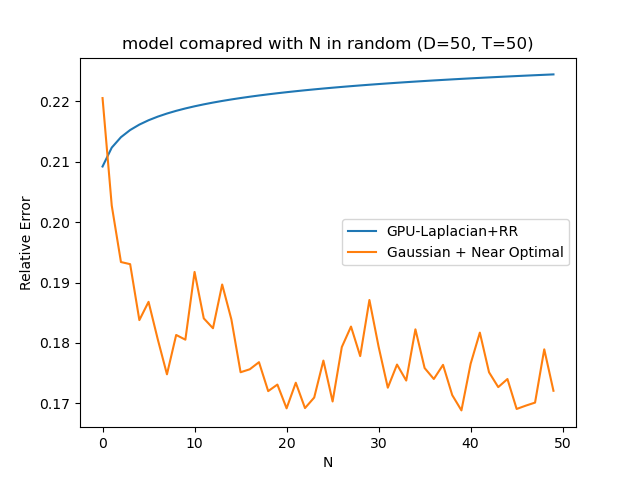
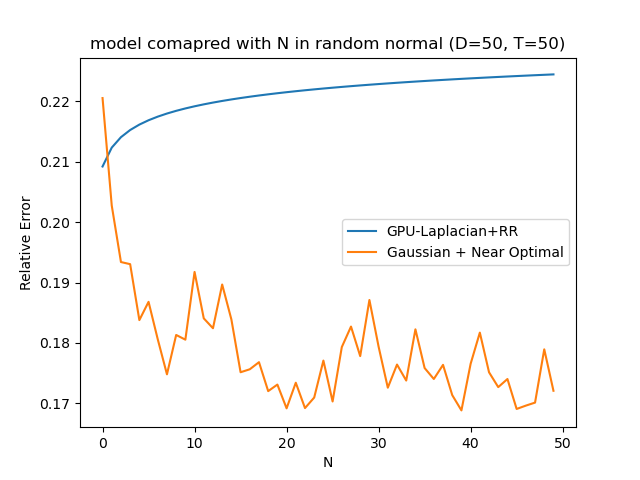
upload plot

Changed region(s): [[0.125, 0.0625, 0.875, 0.125]]

diff --git a/data/plot.py b/data/plot.py
@@ -88,6 +88,25 @@ def plot_acc(fn1_new, fn2_baseline, x_label, y_label, title):
 	plt.savefig("./plots/acc_"+fn)
 	plt.close()
 
+def plot_acc2(fn1_normal, fn2_uniform, x_label, y_label, title):
+	df_new = pd.read_csv(fn1_normal)
+	df_base = pd.read_csv(fn2_uniform) 
+
+	acc_df = pd.DataFrame()
+	acc_df['Random Normal data'] = df_new['relative_err']
+	acc_df['Ranmdom Uniform data'] = df_base['relative_err']
+	#query_df['baseline query'] = df_base['query']
+	acc_df.plot()
+	plt.title(title)
+	plt.xlabel(x_label)
+	plt.ylabel(y_label)
+	fn = fn1_normal.split('.')
+	fn = fn[1].split('/')
+	fn = fn[3]
+	print(fn)
+	plt.savefig("./plots/data_acc_"+fn)
+	plt.close()
+
 # speed 
 
 plot_speed("./speed/uniform/laplacian_tf_D_unif.csv", "./speed/uniform/near_opt_D_unif.csv", 
@@ -125,7 +144,21 @@ plot_acc("./accuracy/uniform/laplacian_D_unif_acc.csv", "./accuracy/uniform/near
  	 "D", "Relative Error", "model comapred with D in random uniform (N=100k, T=50)")
 
 plot_acc("./accuracy/normal/laplacian_N_acc.csv", "./accuracy/normal/near_opt_N_acc.csv", 
-	 "N", "Relative Error", "model comapred with N in random (D=50, T=50)")
+	 "N", "Relative Error", "model comapred with N in random normal (D=50, T=50)")
 
 plot_acc("./accuracy/uniform/laplacian_N_unif_acc.csv", "./accuracy/uniform/near_opt_N_unif_acc.csv", 
-	 "N", "Relative Error", "model comapred with N in uniform (D=50, T=50)")
+	 "N", "Relative Error", "model comapred with N in random uniform (D=50, T=50)")
+
+
+# accuracy compared w normal and uniform 
+plot_acc2("./accuracy/normal/near_opt_N_acc.csv", "./accuracy/uniform/near_opt_N_unif_acc.csv", 
+	 "N", "Relative Error", "NearOpt Gaussian in N with different data")
+
+plot_acc2("./accuracy/normal/near_opt_D_acc.csv", "./accuracy/uniform/near_opt_D_unif_acc.csv", 
+	 "D", "Relative Error", "NearOpt Gaussian in D with different data")
+
+plot_acc2("./accuracy/normal/laplacian_N_acc.csv", "./accuracy/uniform/laplacian_N_unif_acc.csv", 
+	 "N", "Relative Error", "Laplacian+RR in N with different data")
+
+plot_acc2("./accuracy/normal/laplacian_D_acc.csv", "./accuracy/uniform/laplacian_D_unif_acc.csv", 
+	 "D", "Relative Error", "Laplacian+RR in D with different data")
